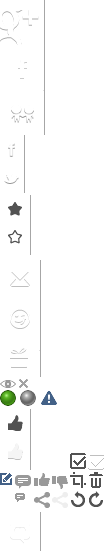
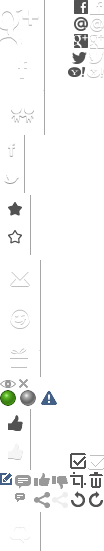
``

Changed region(s): [[0.6346, 0.0, 1.0, 0.1543]]

diff --git a/SITE/InvitePage/invite_fb.html b/SITE/InvitePage/invite_fb.html
@@ -1,0 +1,128 @@
+<!DOCTYPE HTML>
+<html>
+<head>
+    <meta http-equiv="content-type" content="text/html; charset=utf-8" >
+    <title>Another Profile</title>
+    <link rel="stylesheet" href="../style_curr.css">
+    <link rel="stylesheet" href="../css/std.css">
+    <link rel="stylesheet" href="../css/user.css">
+    <link rel="stylesheet" href="../css/button.css">   <!-- НОВЫЕ стили кнопок. Проверить наличие, заменить более новой версией, а так же файлы btns.png и btns-icos.png, Версия указана в первой строке файла-->
+    <link rel="stylesheet" href="../css/profile.css">
+
+</head>
+<body>
+<!-- начало шаблонной шапки -->
+<div class="header">
+    <div class="header_inn">
+        <div class="top_navigation">
+            <ul class="left">
+                <li><a href="#">Messages</a><span class="new_event">2</span></li>
+                <li><a href="#">Signals</a><span class="new_event">45</span></li>
+                <li><a href="#">Soulmates</a><span class="new_event">167</span></li>
+            </ul>
+            <ul class="right">
+                <li class="coints">1450 Coins <a href="#">Add</a></li>
+                <li class="profile"><a href="#">Profile </a></li>
+                <li class="account"><a href="#">Account Settings</a></li>
+            </ul>
+            <div class="std__clear"></div>
+        </div>
+        <div class="bot_navigation">
+            <a href="#"><img src="../img/ya_block_logo.png" class="logo" alt="Yangutu"/></a>
+            <ul class="main_menu">
+                <li><a href="#">Home</a></li>
+                <li><a href="#">Matches</a></li>
+                <li><a href="#">TOP-100</a></li>
+                <li><a href="#">Apps and Games</a></li>
+                <li><a href="#">Blogs</a></li>
+            </ul>
+            <div class="clr2"></div>
+        </div>
+    </div>
+</div>
+<!-- КОНЕЦ шаблонной шапки -->
+<div class="content">
+<div class="content_inn profile__invite">
+
+    <div class="profile__collWide std__layer_grey-lite">
+        <h1 class="std__header std__fs-bigH">Invite your friends anonymously to Yangutu</h1>
+
+        <div class="slider type5">
+            <a class="slider-item current" href="#"> <i class="icon icon-facebook"></i>Facebook</a>
+            <a class="slider-item" href="#"> <i class="icon icon-facebook"></i>E-mail</a>
+            <a class="slider-item" href="#"> <i class="icon icon-facebook"></i>Google+</a>
+            <a class="slider-item " href="#"><i class="icon icon-facebook"></i>Twitter</a>
+            <a class="slider-item" href="#"> <i class="icon icon-facebook"></i>Yahoo</a>
+        </div>
+
+        <div class="profile__invite_message">
+            <p>Invite friends throught Facebook.</p>
+            <a class="profile__invite_message_button button big" href="#">Select Facebook friends</a>
+        </div>
+
+    </div>
+    <!-- /.profile__collWide -->
+    
+    <div class="profile__collRight">
+        <div class="std__layer_grey-lite">
+
+            <h3 class="std__header std__fs-smallH std__underline profile__invite_side_header">
+                3 REASONS <br>
+                to invite friends
+            </h3>
+
+            <div class="profile__invite_side_msg">
+                Help your single friends to find their second half
+            </div>
+
+            <div class="profile__invite_side_msg">
+                More people on the site means more people will join (and more dates for you!)
+            </div>
+
+            <div class="profile__invite_side_msg">
+                Invite friends and get discount on VIP-subscription when they register
+            </div>
+
+        </div>
+        
+    </div>
+    <!-- /.profile__collRight -->
+    <div class="std__clear"></div>
+</div><!-- /.profile /.content_inn -->
+</div><!-- /.content -->
+<!-- НАЧАЛО шаблонного Футера -->
+<div class="footer">
+    <div class="footer_inn">`
+        <ul>
+            <li><a href="/page/about">About us</a></li>
+            <li><a href="/help">FAQ</a></li>
+            <li><a href="http://blog.yangutu.com/">Our blog</a></li>
+            <li><a href="/feedback">Contact us</a></li>
+        </ul>
+        <ul>
+            <li><a href="/page/policy">Privacy</a></li>
+            <li><a href="/page/terms">Terms of use</a></li>
+        </ul>
+        <ul>
+            <li><a href="/page/scams">Scam warning</a></li>
+            <li><a href="/page/safety">Safety Tips</a></li>
+        </ul>
+        <ul>
+            <li><a href="http://datingtips.yangutu.com/">Dating tips</a></li>
+            <li><a href="http://discussionboard.yangutu.com/">Discussion board</a></li>
+            <li><a href="http://relationshipadvice.yangutu.com/">Relationship advice</a></li>
+
+        </ul>
+        <ul>
+            <li><a href="/dating/all">People Directory</a></li>
+        </ul>
+        <div class="right">
+            <font color="black">&copy; 2010-2011 Yangutu Inc. All rights reserved</font><br>
+            <span>Yangutu (swahili) - My one and only.</span>
+        </div>
+        <div class="std__clear"></div>
+    </div>
+</div>
+
+</body>
+</html>

diff --git a/SITE/css/chat.css b/SITE/css/chat.css
@@ -24,9 +24,11 @@
             .chat__tool_userList_item .icon {margin-right: 4px; position: relative; top: 4px; background: 0 -138px url(../img/chat/chat.png) no-repeat!important; }
             .chat__tool_userList_item .button {margin-top: 15px; width: 150px; margin-left: 4px;}
         .chat__tool_more {font-size: 14px; font-weight: bold; color: #fff !important; top: 14px; position: relative; text-shadow: 0 1px 0 rgba(0,0,0,0.5);}
+            .chat__tool_more .arr {font-size: 16px;}
 .chat__tool_label {box-sizing: border-box; -moz-box-sizing: border-box; width: 6px; height: 496px; background: #229312; border: 1px solid #127604; border-right: none;
         border-top-left-radius: 4px; border-bottom-left-radius: 4px; position: absolute; top: -1px; left:-1px; box-shadow: inset 0 1px 0 #6fb665;}
     .chat__tool_label_inner {position: absolute; top: 82px; left: -41px; width: 42px; height: 138px; display: block; background: 0 0 url(../img/chat/chat.png) no-repeat!important; }
+    .chat__tool.closed .chat__tool_label_inner {background-position: -106px 0 !important; }
 
     /* freechat page */
 .chat__freechat {padding-top: 20px; }
@@ -135,7 +137,7 @@
         .chat__list_item .icon-vip {bottom: 2px; left: 2px;}
     /* first message */
 .chat__message_first {position: relative}
-    .chat__message_first_item {position: relative; top: 160px; font-size: 14px; text-align: center !important; }
+    .chat__message_first_item {position: relative; top: 135px; font-size: 14px; text-align: center !important; }
     .chat__message_first_title {font: bold 24px Arial; color: #a9aeb7;}
     .chat__message_first_item p {padding: 0 20px 10px;}
     /* No message */

diff --git a/SITE/css/profile.css b/SITE/css/profile.css
@@ -2,7 +2,7 @@
 .profile__collLeft  {display: block; width: 280px; float: left; margin-right: 30px; }
 .profile__collCenter{display: block; width: 390px; float: left;}
 .profile__collRight {display: block; width: 220px; float: right;}
-.profile__collWide  {display: block; width: 700px; float: left;}
+.profile__collWide  {display: block; width: 700px; float: left; box-sizing: border-box; -moz-box-sizing: border-box;}
 .profile__block-head {padding-bottom: 20px; border-bottom: 1px solid #ccc; margin-bottom: 20px;}
 .profile__block-head .b-std__header,
 .profile__block-head .slider {margin-bottom: 0;}
@@ -474,3 +474,5 @@ a.label {padding: 1px 5px; border: 1px solid #d8d8d8; border-radius: 2px; font-s
     .profile__y_servicesList_item_icon_video {background-position: 0 -438px;}
 .profile__y_servicesList_item_description {text-align: left; height: 48px;}
 .profile__y_servicesList_item .button {margin-top: 20px; width: 185px;}
+
+/* Profile Invite */

diff --git a/SITE/PATTERNS/buttons/btns.html b/SITE/PATTERNS/buttons/btns.html
@@ -525,6 +525,15 @@
 <br><br>
 Slider <br>
 <div class="slider type5">
+    <a class="slider-item current" href="#"> <i class="icon icon-facebook"></i>Facebook</a>
+    <a class="slider-item" href="#"><i class="icon icon-email"></i>E-mail</a>
+    <a class="slider-item" href="#"><i class="icon icon-google"></i>Google+</a>
+    <a class="slider-item" href="#"><i class="icon icon-twitter"></i>Twitter</a>
+    <a class="slider-item" href="#"><i class="icon icon-yahoo"></i>Yahoo</a>
+</div>
+<br><br>
+
+<div class="slider type5">
     <a class="slider-item" href="#">Item 1</a>
     <a class="slider-item" href="#">Item 2 <span class="bubble"><span class="number">18</span></span></a>
     <a class="slider-item current" href="#">Item 3</a>

diff --git a/SITE/PATTERNS/buttons/css/button.css b/SITE/PATTERNS/buttons/css/button.css
@@ -1453,6 +1453,27 @@ i.icon {
   display: inline-block;
   font-size: 0;
 }
+.slider i.icon {
+  position: relative;
+  margin-bottom: -3px;
+  margin-right: 10px;
+}
+.slider i.icon.icon-facebook {
+  background-position: -74px 0;
+  width: 14px;
+  height: 15px;
+}
+.slider .current i.icon.icon-facebook {
+  background-position: -90px 0;
+}
+.slider i.icon.icon-facebook {
+  background-position: -74px 0;
+  width: 14px;
+  height: 15px;
+}
+.slider .current i.icon.icon-facebook {
+  background-position: -90px 0;
+}
 i.icon.icon-eye {
   background-position: 0 -380px;
   width: 16px;

diff --git a/SITE/PATTERNS/buttons/css/button.less b/SITE/PATTERNS/buttons/css/button.less
@@ -585,6 +585,15 @@ i.icon {
   background: url(@btnIconImg) no-repeat;
   display: inline-block;
   font-size: 0;
+
+  .slider & {position: relative; margin-bottom: -3px; margin-right: 10px;}
+  .slider &.icon-facebook{background-position: -74px 0; width: 14px; height: 15px;}
+  .slider .current &.icon-facebook{background-position: -90px 0;}
+
+  .slider &.icon-facebook{background-position: -74px 0; width: 14px; height: 15px;}
+  .slider .current &.icon-facebook{background-position: -90px 0;}
+
+
   &.icon-eye{
     background-position: 0 -380px;
     width: 16px; height: 8px;

diff --git a/SITE/Chat-new/chat.html b/SITE/Chat-new/chat.html
@@ -613,7 +613,7 @@
 
     </div><!-- /.chat__tool_middle -->
     <div class="chat__tool_bottom">
-        <a class="chat__tool_more" href="#">View more &raquo;</a>
+        <a class="chat__tool_more" href="#">View more <span class="arr">&raquo;</span></a>
     </div><!-- /.chat__tool_bottom -->
 
     <div class="chat__tool_label">
